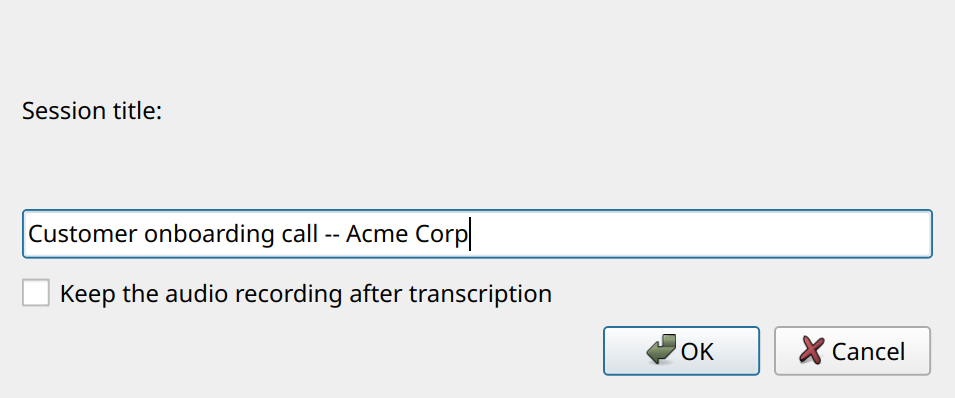
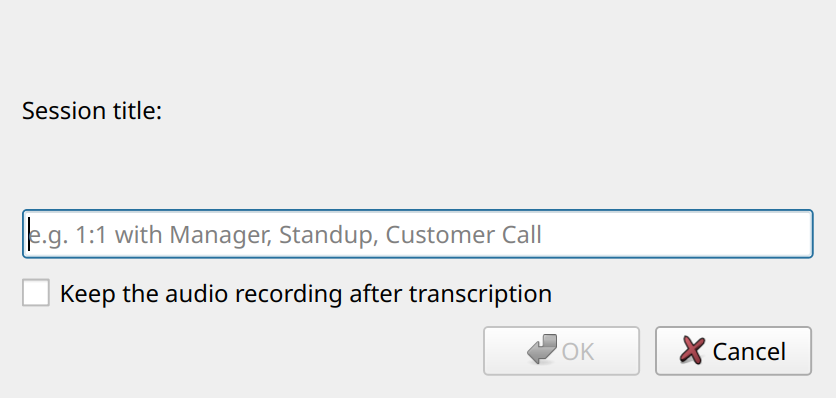
Bump to v0.4.0; refresh affected screenshots; README updates
Screenshots regenerated per the standing rule (any UI change updates
the docs/screenshots/ assets in the same PR as the UI change):

- 06-dialog-new-session.png: refreshed for the new prefill_note slot +
  size bump. Empty-state look is essentially unchanged.
- 07-dialog-settings.png: shows the new Transcription/vocabulary blurb,
  Audio device pickers, Calendar group, plus the existing Interface +
  Synthesis Prompts groups. Captured at extended height so the docs
  show every group in one shot; in normal use the dialog opens at
  default ~600px and scrolls.
- 10-dialog-new-session-calendar-prefill.png (new): the calendar-driven
  pre-fill state -- explanatory header, pre-filled title, OK enabled.

README Status now describes v0.4. Settings table gains rows for the
two device pickers, custom vocabulary, calendar watch toggle, and
notify window.

diff --git a/meeting_notetaker/version.py b/meeting_notetaker/version.py
@@ -1,1 +1,1 @@
-__version__ = "0.3.0"
+__version__ = "0.4.0"

diff --git a/README.md b/README.md
@@ -69,8 +69,17 @@ time you paste a new response, the prior `notes.md` is archived to
 
 ![New Session dialog](docs/screenshots/06-dialog-new-session.png)
 
-**Settings** -- model size, capture / refinement toggles, VAD, your
-name, theme, and a shortcut to the prompt-templates folder:
+**New Session pre-filled from an Outlook calendar invite** -- click the
+"Meeting starting" tray notification and the dialog opens with the
+meeting subject already entered; attendees + agenda land in My Notes
+when you accept:
+
+![New Session dialog (calendar pre-fill)](docs/screenshots/10-dialog-new-session-calendar-prefill.png)
+
+**Settings** -- model size, capture / refinement toggles, custom
+vocabulary, audio device picker, Outlook calendar watch, VAD, your
+name, theme, and a shortcut to the prompt-templates folder. The dialog
+scrolls if your screen is short:
 
 ![Settings dialog](docs/screenshots/07-dialog-settings.png)
 
@@ -104,9 +113,13 @@ hand-off.
 
 ## Status
 
-v0.1 alpha. Transcription works end-to-end; performance tuning is
-ongoing (the final refinement pass can take a while on CPU; see
-"Why transcription can take a while" below).
+v0.4 alpha. End-to-end capture + transcription + synthesis works;
+v0.4 adds calendar-aware capture (Outlook COM polling -> tray
+notification -> pre-filled New Session) plus custom vocabulary (global
+plus per-session hotwords from attendees + agenda) plus an explicit
+audio-device picker. Performance tuning is ongoing; the final
+refinement pass can take a while on CPU (see "Why transcription can
+take a while" below).
 
 The WASAPI loopback path is cribbed from
 [Danaor/WhisperType](https://github.com/Danaor/WhisperType).
@@ -284,6 +297,11 @@ these are also editable directly in `config.toml`.
 | Enable VAD | on | Trim silent stretches before Whisper decodes them. Saves CPU. Disable if it ever clips speech. |
 | VAD min silence (ms) | 500 | How quiet a stretch has to be (in ms) before VAD treats it as silence. 250-2000 ms range. |
 | Theme | auto | UI theme. (Stub for v0.1; `auto` follows the OS.) |
+| Mic device | (System default) | Which input device to capture from. Persists by name so the same device is picked after replug or reboot. |
+| Loopback device | (System default) | Which WASAPI loopback device to capture system audio from. Windows-only. |
+| Custom vocabulary | (empty) | One phrase per line in `vocabulary.txt`. Biases the transcriber toward proper nouns and corporate terms it would otherwise mis-hear ("Plantronics", "EDAPA-737", "Snowflake Cortex"). Per-session hotwords are also auto-derived from your `# Attendees` block and the agenda body when present. |
+| Watch Outlook calendar | off | Poll Outlook for upcoming meetings and pop a tray notification a few minutes before each one starts. Click the notification to open New Session with the meeting subject, attendees, and agenda pre-filled. Recording is never started automatically. Windows + Outlook only. |
+| Notify within (min) | 5 | How far in advance to surface the calendar notification. |
 
 ### Why transcription can take a while (and what to do about it)
 
